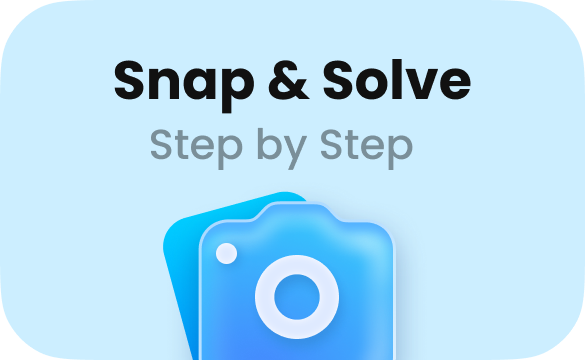
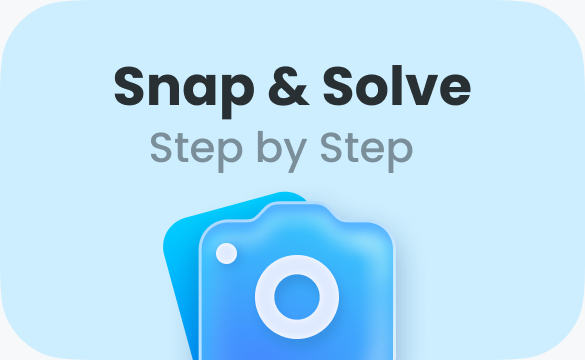
fix: refine home solve capture flow

Changed region(s): [[0.1846, 0.1528, 0.5231, 0.3361], [0.2462, 0.3361, 0.7077, 0.4889], [0.5538, 0.1528, 0.8308, 0.3056]]

diff --git a/src/demos/previews/home-v2-preview.tsx b/src/demos/previews/home-v2-preview.tsx
@@ -12,7 +12,8 @@ type HomeV2Tab = "study" | "solve" | "tutor";
 type HomeV2MainTab = "study" | "tutor";
 
 const ASSET = "/figma/home-v2";
-const SOLVE_CAPTURE_TABBAR_SPACER_H = 77;
+const SOLVE_CAPTURE_BOTTOM_MARGIN_H = 32;
+const SOLVE_CAPTURE_TABBAR_SPACER_H = SOLVE_CAPTURE_BOTTOM_MARGIN_H;
 
 const VERSION_ONE_CREATE_ITEMS = [
   {
@@ -1268,7 +1269,7 @@ export function HomeV2Preview({
 }: {
   experiment?: HomeExperimentVariant;
 }) {
-  return <HomeVersionOnePreview showTutorTab={experiment === "experiment-b"} />;
+  return <HomeVersionOnePreview showTutorTab={experiment === "experiment-a"} />;
 }
 
 function HomeStudyLayer({
@@ -1329,16 +1330,72 @@ function HomeVersionOnePreview({ showTutorTab = false }: { showTutorTab?: boolea
   return showTutorTab ? <HomeExperimentBPreview /> : <HomeExperimentAPreview />;
 }
 
+function SolveCloseToolbarButton({ onClose }: { onClose: () => void }) {
+  return (
+    <div className="flex items-center" style={{ gap: 24 }}>
+      <button
+        type="button"
+        aria-label="Close solve"
+        onClick={onClose}
+        className="relative h-[32px] w-[32px] shrink-0 border-0 bg-transparent p-0"
+        style={{ WebkitTapHighlightColor: "transparent" }}
+      >
+        <img
+          src="/figma/home/close.svg"
+          alt=""
+          draggable={false}
+          className="absolute left-1/2 top-1/2 h-[24px] w-[24px] -translate-x-1/2 -translate-y-1/2"
+        />
+      </button>
+      <div
+        aria-hidden="true"
+        className="relative flex h-[32px] shrink-0 items-start"
+      >
+        <div
+          className="flex h-[32px] items-center justify-center overflow-hidden rounded-l-[50px] border border-[#00C2FF] bg-white py-[5.5px] pl-[16px] pr-[10px]"
+          style={{
+            backdropFilter: "blur(1.5px)",
+            WebkitBackdropFilter: "blur(1.5px)",
+          }}
+        >
+          <span className="whitespace-nowrap text-center font-[Inter] text-[16px] font-bold leading-[1.4] text-[#007AFF]">
+            20💎
+          </span>
+        </div>
+        <div className="relative h-[32px] w-[36px] shrink-0 overflow-hidden rounded-r-[50px] border border-[#00C2FF] bg-[#00C2FF]">
+          <img
+            src="/figma/home/solve-credit-plus.svg"
+            alt=""
+            draggable={false}
+            className="absolute left-[9px] top-[9px] h-[14px] w-[14px]"
+          />
+        </div>
+      </div>
+    </div>
+  );
+}
+
 function HomeExperimentAPreview() {
   const [uploadOpen, setUploadOpen] = useState(false);
-  const [activeTab, setActiveTab] = useState<"study" | "solve">("study");
-  const canvasBackground = activeTab === "solve" ? "#FFFFFF" : "#F6F8FA";
+  const [activeTab, setActiveTab] = useState<"study">("study");
+  const [solveSheetPhase, setSolveSheetPhase] = useState<"idle" | "open" | "closing">("idle");
+  const canvasBackground = "#F6F8FA";
 
   const changeTab = (tab: HomeV2Tab) => {
     if (tab === "tutor") return;
-    setActiveTab(tab);
     setUploadOpen(false);
+    if (tab === "solve") {
+      setSolveSheetPhase("open");
+      return;
+    }
+    setSolveSheetPhase("idle");
+    setActiveTab("study");
   };
+
+  const closeSolve = () => {
+    setSolveSheetPhase("closing");
+  };
+  const solveSheetVisible = solveSheetPhase !== "idle";
 
   return (
     <DemoCanvas mode="fill" background={canvasBackground}>
@@ -1346,24 +1403,59 @@ function HomeExperimentAPreview() {
         className="absolute inset-0 select-none overflow-hidden"
         style={{ background: canvasBackground }}
       >
-        {activeTab === "solve" ? (
-          <HomePreview
-            hideGuidedPopover
-            showModeSegment={false}
-            bottomBar={
-              <div
-                aria-hidden="true"
-                style={{ height: SOLVE_CAPTURE_TABBAR_SPACER_H }}
-              />
+        <style>
+          {`
+            @keyframes home-v2-solve-sheet-enter {
+              from {
+                transform: translateY(100%);
+              }
+              to {
+                transform: translateY(0);
+              }
             }
-          />
-        ) : (
-          <HomeStudyLayer
-            uploadOpen={uploadOpen}
-            onCloseUpload={() => setUploadOpen(false)}
-            onSnapSolve={() => changeTab("solve")}
-          />
-        )}
+
+            @keyframes home-v2-solve-sheet-exit {
+              from {
+                transform: translateY(0);
+              }
+              to {
+                transform: translateY(100%);
+              }
+            }
+          `}
+        </style>
+        <HomeStudyLayer
+          uploadOpen={uploadOpen}
+          onCloseUpload={() => setUploadOpen(false)}
+          onSnapSolve={() => changeTab("solve")}
+        />
+        {solveSheetVisible ? (
+          <div
+            className="absolute inset-0 z-[160]"
+            onAnimationEnd={(event) => {
+              if (event.currentTarget !== event.target) return;
+              if (solveSheetPhase === "closing") setSolveSheetPhase("idle");
+            }}
+            style={{
+              animation: solveSheetPhase === "closing"
+                ? "home-v2-solve-sheet-exit 392ms cubic-bezier(0.16, 1, 0.3, 1) both"
+                : "home-v2-solve-sheet-enter 504ms cubic-bezier(0.16, 1, 0.3, 1) both",
+              willChange: "transform, opacity",
+            }}
+          >
+            <HomePreview
+              hideGuidedPopover
+              showModeSegment={false}
+              bottomBar={
+                <div
+                  aria-hidden="true"
+                  style={{ height: SOLVE_CAPTURE_BOTTOM_MARGIN_H }}
+                />
+              }
+              toolbarLeft={<SolveCloseToolbarButton onClose={closeSolve} />}
+            />
+          </div>
+        ) : null}
         <HomeV2BottomBar
           activeTab={activeTab}
           onTabChange={changeTab}
@@ -1378,7 +1470,7 @@ function HomeExperimentAPreview() {
 function HomeExperimentBPreview() {
   const [uploadOpen, setUploadOpen] = useState(false);
   const [activeTab, setActiveTab] = useState<HomeV2MainTab>("study");
-  const [solveSheetPhase, setSolveSheetPhase] = useState<"idle" | "open">("idle");
+  const [solveSheetPhase, setSolveSheetPhase] = useState<"idle" | "open" | "closing">("idle");
   const [tutorSubpageVisible, setTutorSubpageVisible] = useState(false);
 
   useEffect(() => {
@@ -1396,6 +1488,10 @@ function HomeExperimentBPreview() {
   const openSolveSheet = () => {
     setSolveSheetPhase("open");
     setUploadOpen(false);
+  };
+
+  const closeSolveSheet = () => {
+    setSolveSheetPhase("closing");
   };
 
   const hideHomeTabBar = activeTab === "tutor" && tutorSubpageVisible;
@@ -1416,8 +1512,6 @@ function HomeExperimentBPreview() {
       />
     );
   const solveSheetVisible = solveSheetPhase !== "idle";
-  const bottomBarActiveTab: HomeV2Tab =
-    solveSheetPhase === "open" ? "solve" : activeTab;
 
   return (
     <DemoCanvas mode="fill" background={canvasBackground}>
@@ -1436,15 +1530,30 @@ function HomeExperimentBPreview() {
               }
             }
 
+            @keyframes home-v2-solve-sheet-exit {
+              from {
+                transform: translateY(0);
+              }
+              to {
+                transform: translateY(100%);
+              }
+            }
+
           `}
         </style>
         {content}
         {solveSheetVisible ? (
           <div
-            className="absolute inset-0 z-[60]"
+            className="absolute inset-0 z-[160]"
+            onAnimationEnd={(event) => {
+              if (event.currentTarget !== event.target) return;
+              if (solveSheetPhase === "closing") setSolveSheetPhase("idle");
+            }}
             style={{
               animation:
-                "home-v2-solve-sheet-enter 700ms cubic-bezier(0.16, 1, 0.3, 1) both",
+                solveSheetPhase === "closing"
+                  ? "home-v2-solve-sheet-exit 392ms cubic-bezier(0.16, 1, 0.3, 1) both"
+                  : "home-v2-solve-sheet-enter 504ms cubic-bezier(0.16, 1, 0.3, 1) both",
               willChange: "transform, opacity",
             }}
           >
@@ -1454,15 +1563,16 @@ function HomeExperimentBPreview() {
               bottomBar={
                 <div
                   aria-hidden="true"
-                  style={{ height: SOLVE_CAPTURE_TABBAR_SPACER_H }}
+                  style={{ height: SOLVE_CAPTURE_BOTTOM_MARGIN_H }}
                 />
               }
+              toolbarLeft={<SolveCloseToolbarButton onClose={closeSolveSheet} />}
             />
           </div>
         ) : null}
         {!hideHomeTabBar ? (
           <HomeExperimentBBottomBar
-            activeTab={bottomBarActiveTab}
+            activeTab={activeTab}
             uploadOpen={uploadOpen}
             onStudy={() => switchTab("study")}
             onSolve={openSolveSheet}

diff --git a/src/demos/previews/home-preview.tsx b/src/demos/previews/home-preview.tsx
@@ -85,6 +85,21 @@ export function HomePreview({
         }}
       />
 
+      {useEmbeddedSolveLayout ? (
+        <div
+          className="pointer-events-none absolute bottom-0 left-0"
+          style={{
+            width: 393,
+            height: 272,
+            background:
+              "linear-gradient(180deg, rgba(17, 17, 17, 0.75) 0%, rgba(34, 34, 34, 0.0001) 100%)",
+            backdropFilter: "blur(0px)",
+            WebkitBackdropFilter: "blur(0px)",
+            transform: "rotate(-180deg)",
+          }}
+        />
+      ) : null}
+
       {/* Tool bar — 1:1 与 Figma 节点 1465:13774 对齐 */}
       <div
         className="absolute left-0 right-0 flex items-center justify-between"
@@ -277,10 +292,9 @@ const SEGMENT_TEXT_BASE = {
 };
 
 const EMBEDDED_SOLVE_CATEGORIES = [
-  { label: "Notes", left: 115.5, active: false },
-  { label: "Solution", left: 196.5, active: true },
-  { label: "Flashcards", left: 299, active: false },
-  { label: "Quiz", left: 386, active: false },
+  { label: "Video Tutor", left: 53, width: 85, active: false },
+  { label: "Solution", left: 162, width: 67, active: true },
+  { label: "Study Tools", left: 253, width: 97, active: false },
 ] as const;
 
 function CaptureMode({
@@ -305,6 +319,9 @@ function CaptureMode({
   useEmbeddedSolveLayout: boolean;
 }) {
   const captureBottom = useEmbeddedSolveLayout ? 52 : 20;
+  const captureIconTop = 79;
+  const captureButtonTop = 50;
+  const embeddedPanelOffsetY = useEmbeddedSolveLayout ? 20 : 0;
 
   return (
     <div
@@ -312,30 +329,28 @@ function CaptureMode({
       style={{ height: CAPTURE_MODE_PANEL_H, pointerEvents: "none" }}
     >
       {/* 底部蒙层 — Figma node 1467:14077 */}
-      <div
-        style={{
-          position: "absolute",
-          left: 0,
-          width: useEmbeddedSolveLayout ? 393 : "100%",
-          bottom: useEmbeddedSolveLayout ? -112 : 0,
-          height: useEmbeddedSolveLayout ? 272 : 160,
-          background: useEmbeddedSolveLayout
-            ? "linear-gradient(180deg, rgba(17, 17, 17, 0.75) 0%, rgba(34, 34, 34, 0.0001) 100%)"
-            : "linear-gradient(to top, rgba(17, 17, 17, 0.75) 0%, rgba(34, 34, 34, 0) 100%)",
-          backdropFilter: useEmbeddedSolveLayout ? "blur(0px)" : undefined,
-          WebkitBackdropFilter: useEmbeddedSolveLayout ? "blur(0px)" : undefined,
-          transform: useEmbeddedSolveLayout ? "rotate(-180deg)" : undefined,
-        }}
-      />
+      {!useEmbeddedSolveLayout ? (
+        <div
+          style={{
+            position: "absolute",
+            left: 0,
+            width: "100%",
+            bottom: 0,
+            height: 160,
+            background:
+              "linear-gradient(to top, rgba(17, 17, 17, 0.75) 0%, rgba(34, 34, 34, 0) 100%)",
+          }}
+        />
+      ) : null}
 
       {useEmbeddedSolveLayout ? (
         <div
           style={{
             position: "absolute",
             left: 0,
-            top: 22,
+            top: embeddedPanelOffsetY,
             width: 393,
-            overflow: "hidden",
+            height: 60,
             pointerEvents: "none",
           }}
         >
@@ -345,8 +360,12 @@ function CaptureMode({
               style={{
                 position: "absolute",
                 left: item.left,
-                top: 0,
-                transform: "translateX(-50%)",
+                top: 22,
+                width: item.width,
+                height: 16,
+                display: "flex",
+                alignItems: "center",
+                justifyContent: "center",
                 fontFamily:
                   "Poppins, -apple-system, BlinkMacSystemFont, 'PingFang SC', sans-serif",
                 fontWeight: 600,
@@ -354,6 +373,7 @@ function CaptureMode({
                 lineHeight: "16px",
                 color: "#FFFFFF",
                 opacity: item.active ? 1 : 0.6,
+                textAlign: "center",
                 whiteSpace: "nowrap",
               }}
             >
@@ -370,7 +390,8 @@ function CaptureMode({
           // 19% 对应 phone 393 内 left=75（width 41 居中于 75 处）；fill 模式下随 device 比例展开
           left: "19%",
           transform: "translateX(-50%)",
-          bottom: captureBottom,
+          top: useEmbeddedSolveLayout ? captureIconTop + embeddedPanelOffsetY : undefined,
+          bottom: useEmbeddedSolveLayout ? undefined : captureBottom,
           width: 41,
           display: "flex",
           flexDirection: "column",
@@ -438,7 +459,8 @@ function CaptureMode({
           // 81% 对应 phone 393 内 left=318；fill 模式下随 device 比例展开
           left: "81%",
           transform: "translateX(-50%)",
-          bottom: captureBottom,
+          top: useEmbeddedSolveLayout ? captureIconTop + embeddedPanelOffsetY : undefined,
+          bottom: useEmbeddedSolveLayout ? undefined : captureBottom,
           width: 41,
           display: "flex",
           flexDirection: "column",
@@ -468,7 +490,8 @@ function CaptureMode({
         style={{
           position: "absolute",
           left: "50%",
-          bottom: captureBottom,
+          top: useEmbeddedSolveLayout ? captureButtonTop + embeddedPanelOffsetY : undefined,
+          bottom: useEmbeddedSolveLayout ? undefined : captureBottom,
           transform: "translateX(-50%)",
           width: 90,
           height: 90,